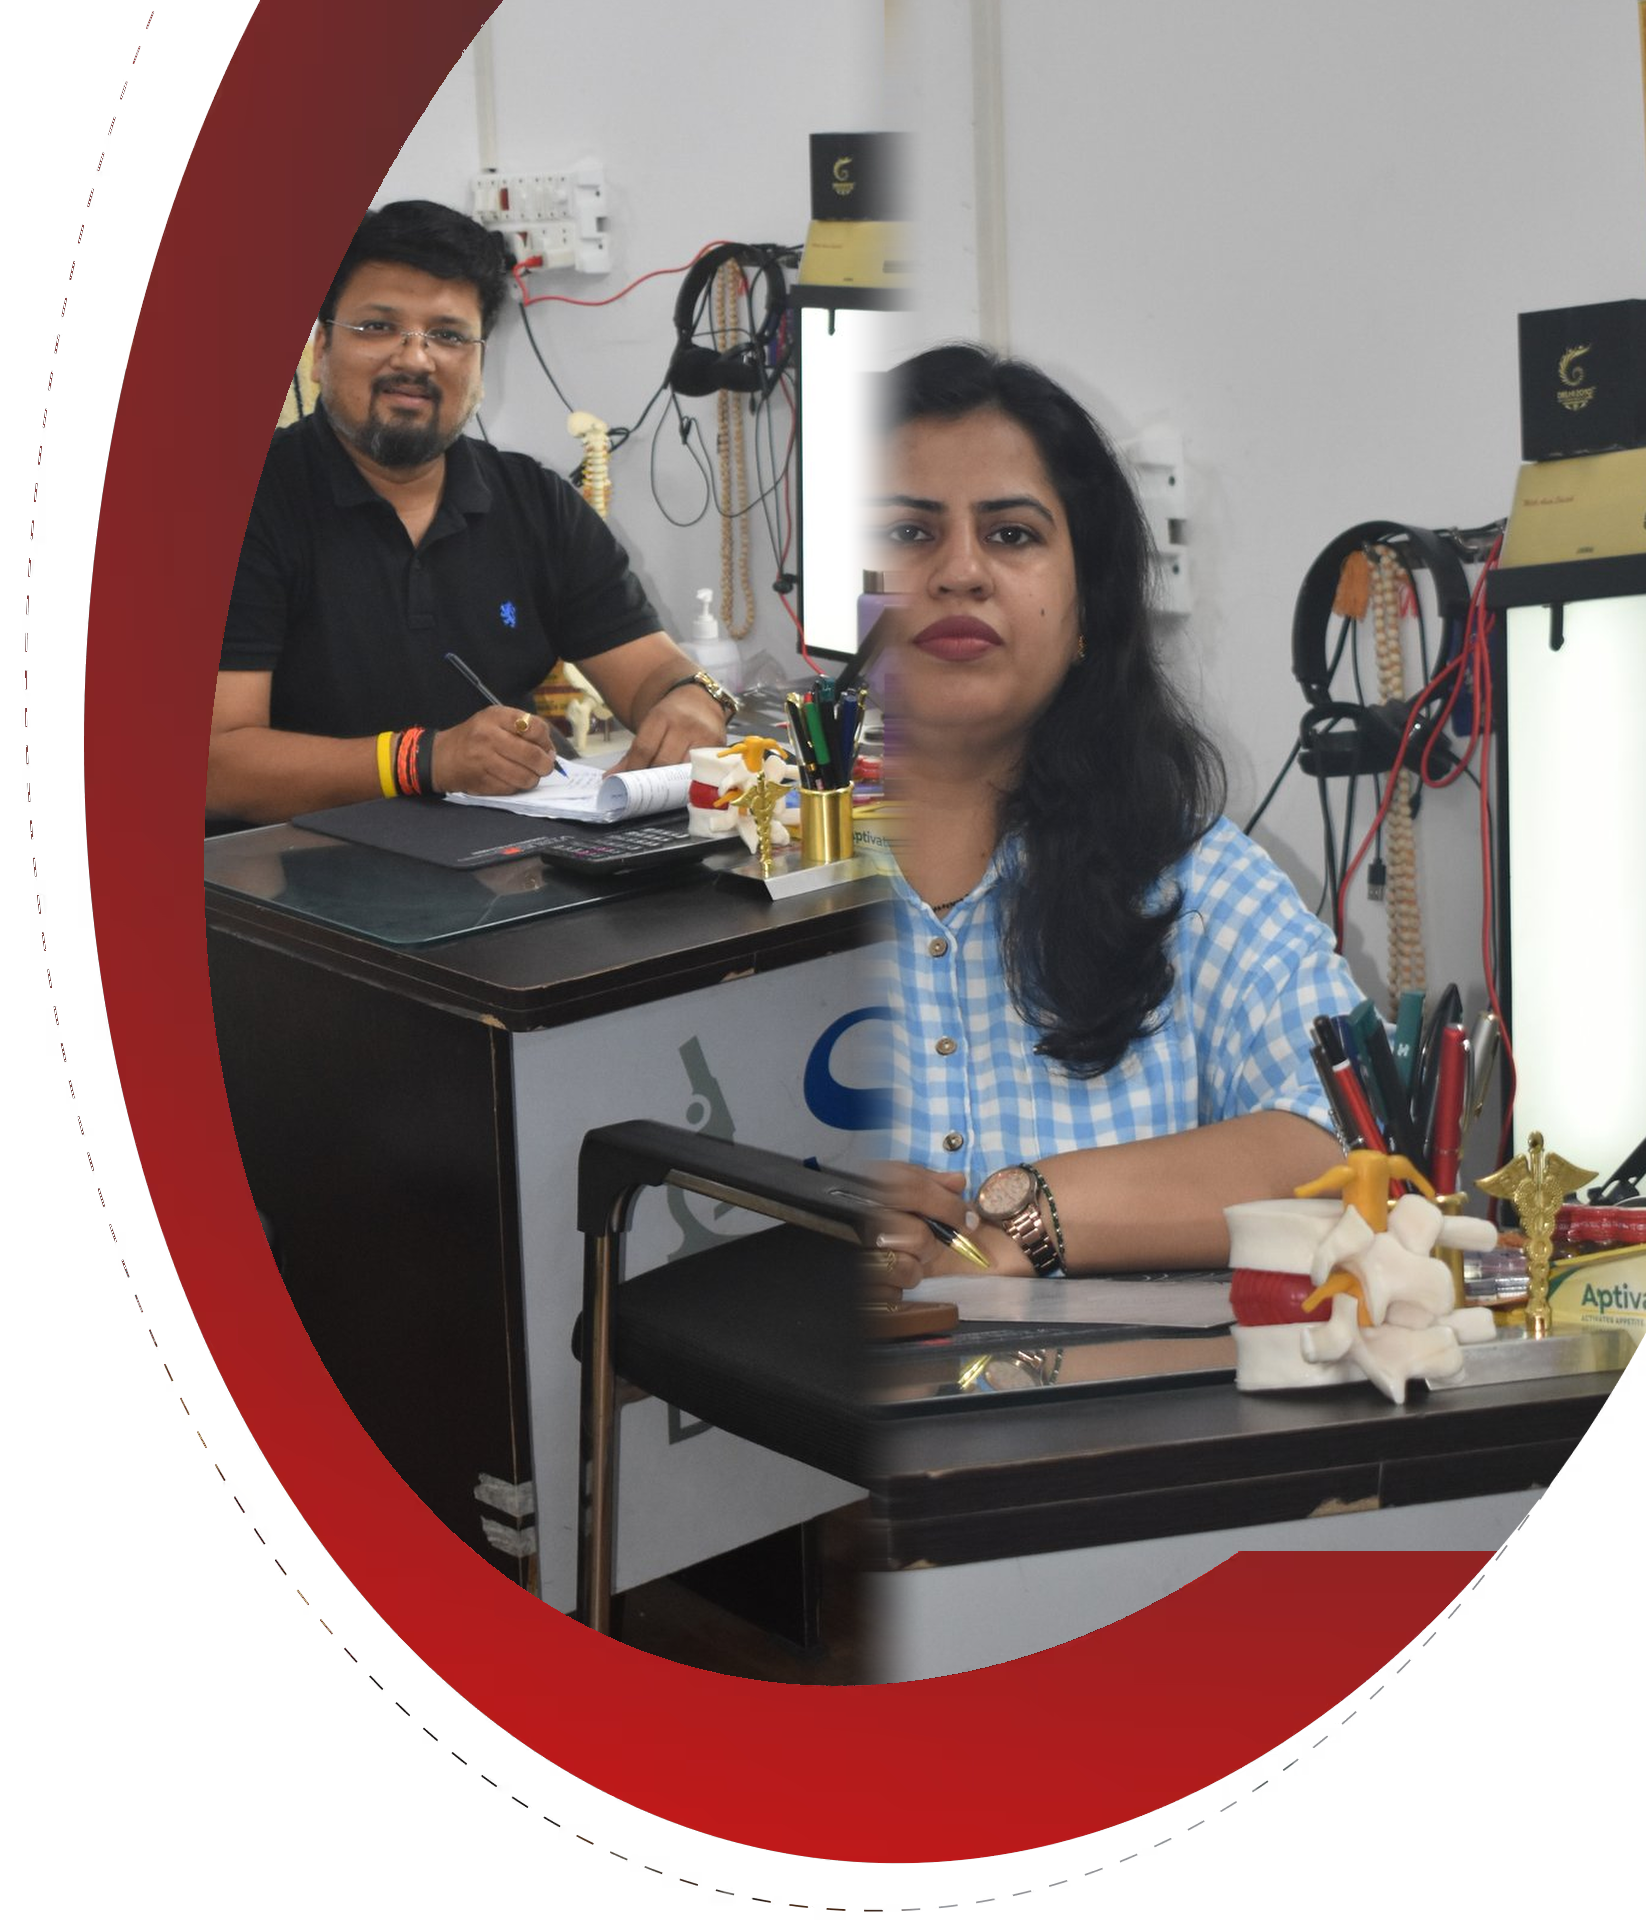
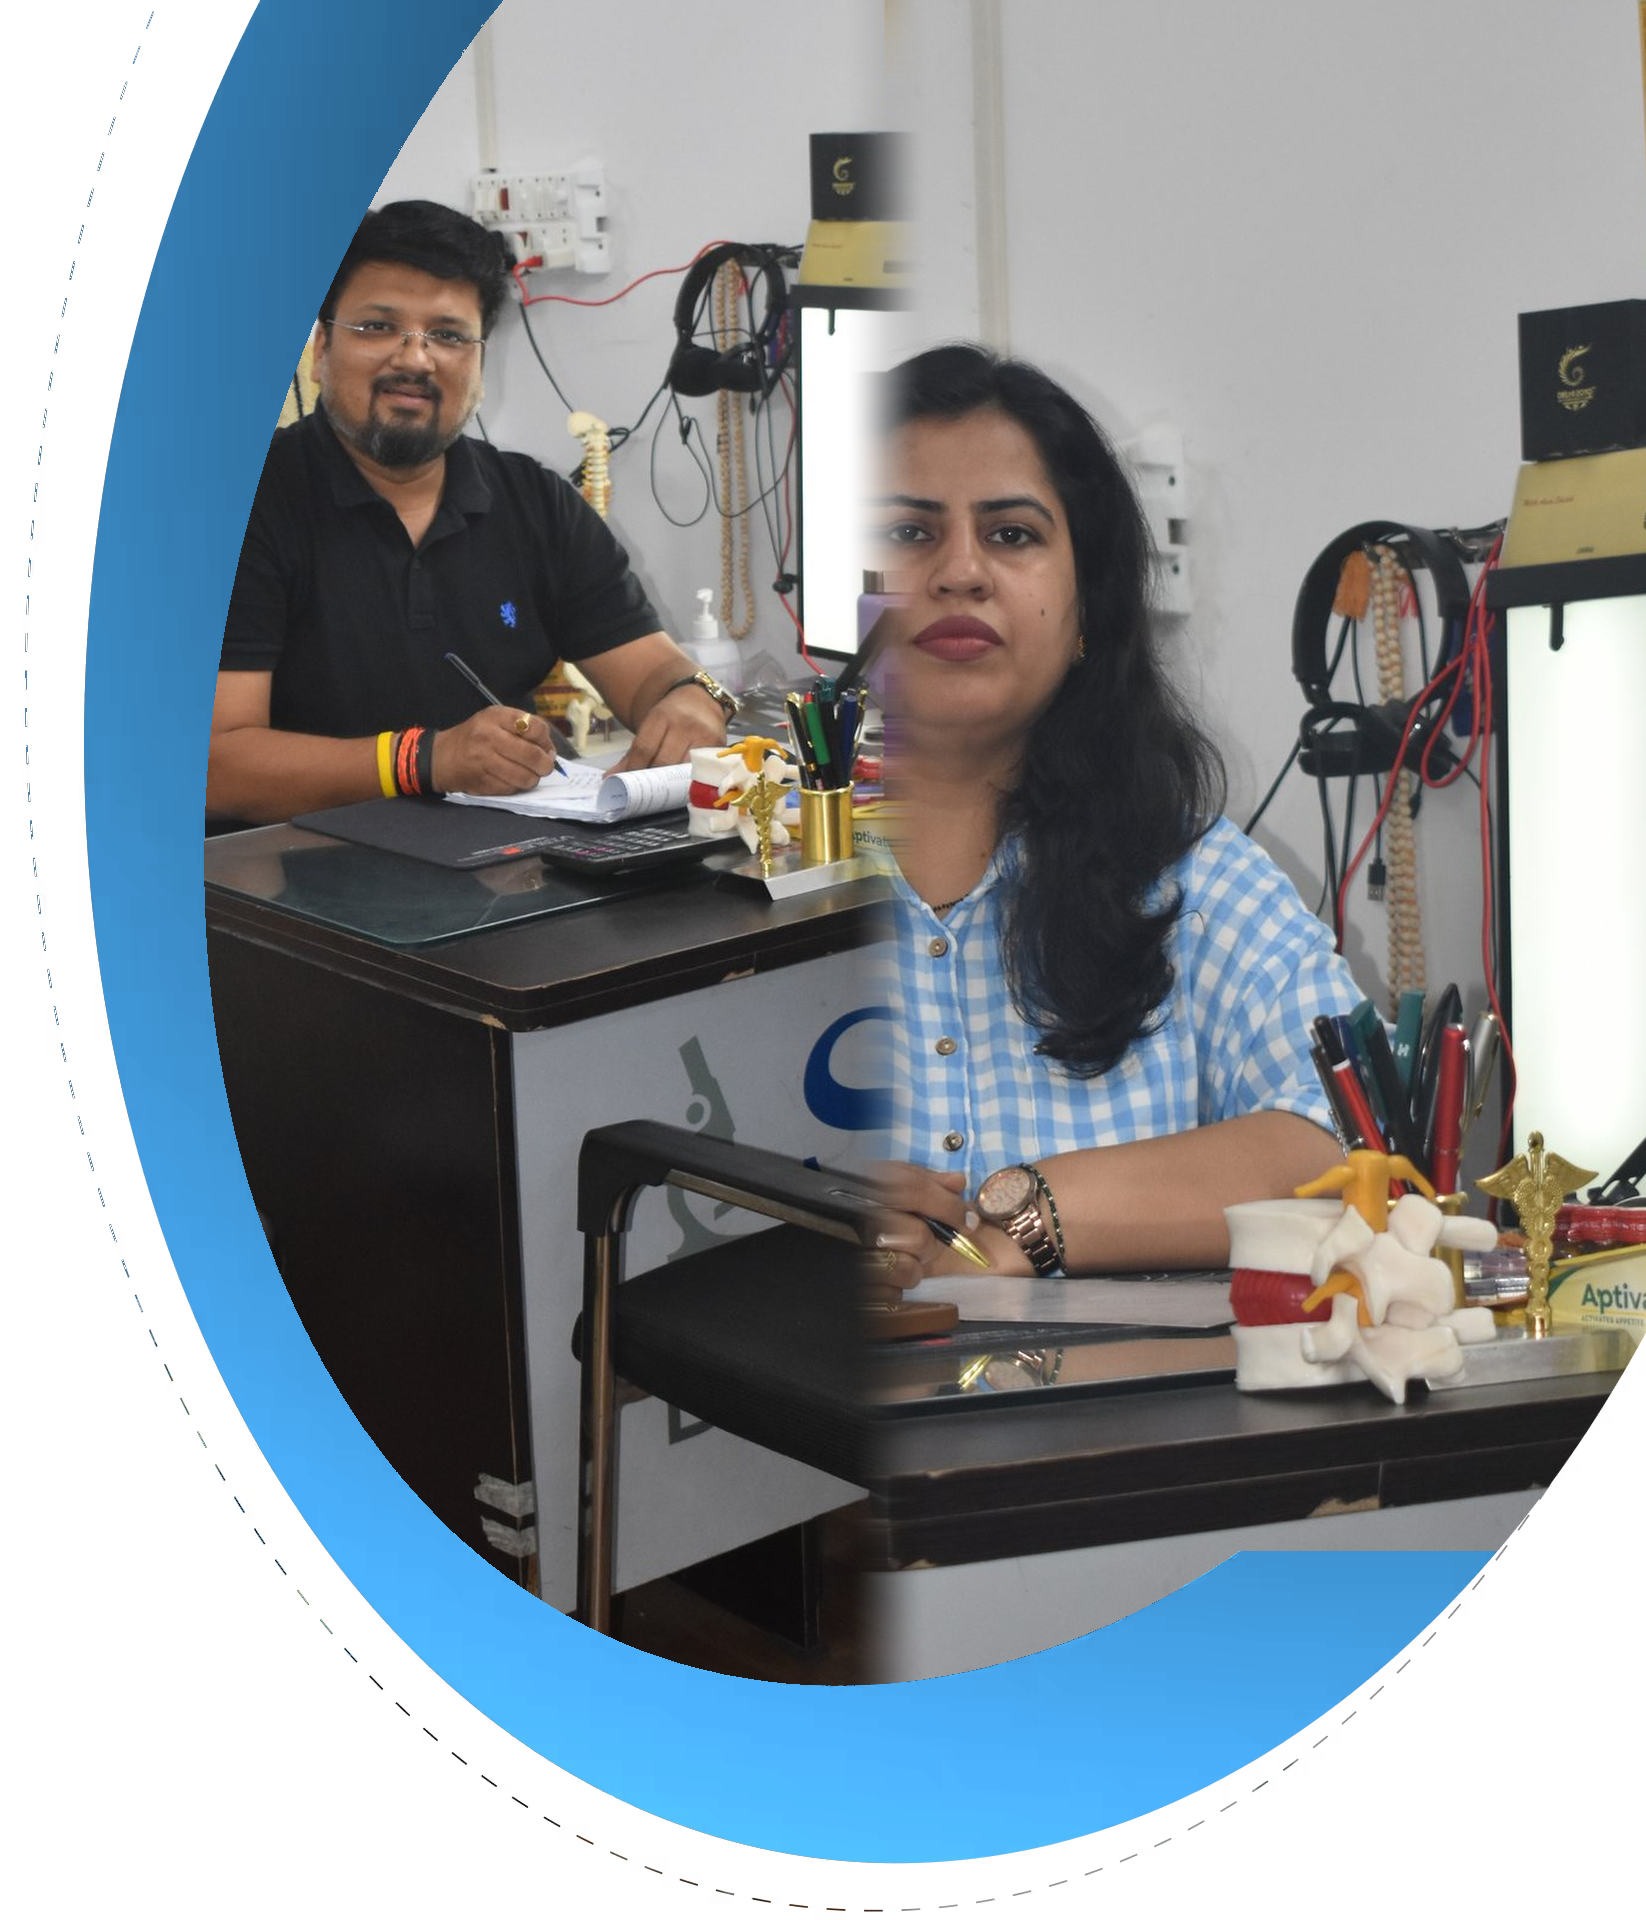
Update crescent arc and sticker shadow to website brand blue (#367fb5)

Changed region(s): [[0.031, 0.0, 0.8985, 0.9688]]

diff --git a/index.html b/index.html
@@ -349,10 +349,10 @@
                 alt="Accurate Healthcare Senior Clinical Directors Dr. Manish Gupta & Dr. Vandana Choudhary"
                 class="w-full h-auto object-contain block drop-shadow-2xl select-none" />
 
-              <!-- Tilted PhysioFit Signature Sticker Badge (Matches Image 2) -->
+              <!-- Tilted PhysioFit Signature Sticker Badge (Matches Image 2 in Brand Blue) -->
               <div class="absolute left-0 sm:-left-2 top-[26%] sm:top-[28%] z-20 transform -rotate-6 select-none pointer-events-none hover:rotate-0 transition-transform">
-                <div class="bg-slate-950 text-white px-3 sm:px-5 py-2 sm:py-2.5 border-2 border-slate-900 shadow-[4px_4px_0px_#8B1E2F]">
-                  <div class="text-[9px] sm:text-[11px] font-black italic tracking-widest text-rose-300 uppercase leading-none">
+                <div class="bg-slate-950 text-white px-3 sm:px-5 py-2 sm:py-2.5 border-2 border-slate-900 shadow-[4px_4px_0px_#367fb5]">
+                  <div class="text-[9px] sm:text-[11px] font-black italic tracking-widest text-[#bce0ee] uppercase leading-none">
                     NOW IN GHAZIABAD
                   </div>
                   <div class="text-xs sm:text-base lg:text-lg font-black italic tracking-tight text-white uppercase mt-1 leading-none">

diff --git a/recolor_crescent_blue.py b/recolor_crescent_blue.py
@@ -1,0 +1,138 @@
+import cv2
+import numpy as np
+
+# Load images
+f39 = cv2.imread('public/images/frame39_raw.png', cv2.IMREAD_UNCHANGED)
+h, w = f39.shape[:2] # 2048, 2880
+alpha_f39 = f39[:, :, 3]
+
+dm = cv2.imread('public/images/dr-manish.jpg')
+dv = cv2.imread('public/images/dr-vandana.jpg')
+
+# 1. Isolate the Red Ring + Dashed Orbit from f39
+is_red = (f39[:, :, 2] > 90) & (f39[:, :, 1] < 60) & (f39[:, :, 0] < 60) & (alpha_f39 > 80)
+y_coords, x_coords = np.ogrid[:h, :w]
+is_red[(x_coords > 2300) & (y_coords >= 850) & (y_coords <= 1550)] = False
+
+num_labels, labels, stats, centroids = cv2.connectedComponentsWithStats(is_red.astype(np.uint8), connectivity=8)
+ring_label = None
+max_area = 0
+for lbl in range(1, num_labels):
+    area = stats[lbl, cv2.CC_STAT_AREA]
+    left = stats[lbl, cv2.CC_STAT_LEFT]
+    if area > max_area and left < 1600:
+        max_area = area
+        ring_label = lbl
+
+red_ring_mask = (labels == ring_label)
+dashed_mask = (alpha_f39 > 0) & (alpha_f39 < 240) & ~red_ring_mask & (x_coords < 1600)
+
+# 2. Recolor the Red Ring to Brand Blue (#367fb5 / #1B365D)
+# Target Brand Blue: #367fb5 -> B=181, G=127, R=54 in BGR
+# In the original red ring, red channel is f39[:, :, 2]
+red_channel = f39[:, :, 2].astype(float)
+# Normalize luminance by 125.0
+norm_lum = red_channel / 125.0
+
+blue_ring = f39.copy()
+# Recolor red ring:
+blue_ring[red_ring_mask, 0] = np.clip(181.0 * norm_lum[red_ring_mask], 0, 255).astype(np.uint8) # B
+blue_ring[red_ring_mask, 1] = np.clip(127.0 * norm_lum[red_ring_mask], 0, 255).astype(np.uint8) # G
+blue_ring[red_ring_mask, 2] = np.clip(54.0 * norm_lum[red_ring_mask], 0, 255).astype(np.uint8)  # R
+
+# Recolor dashed line to #367fb5 (B=181, G=127, R=54)
+blue_ring[dashed_mask, 0] = 181
+blue_ring[dashed_mask, 1] = 127
+blue_ring[dashed_mask, 2] = 54
+
+graphic_overlay_mask = red_ring_mask | dashed_mask
+graphic_overlay_blue = np.zeros((h, w, 4), dtype=np.uint8)
+graphic_overlay_blue[graphic_overlay_mask] = blue_ring[graphic_overlay_mask]
+
+# 3. Doctors Framing
+target_h = 2048
+w_m_target = 760
+w_v_target = 760
+
+crop_h_m = 1700
+crop_w_m = int(crop_h_m * (w_m_target / float(target_h)))
+y1_m = max(0, int(910 - 0.28 * crop_h_m))
+y2_m = y1_m + crop_h_m
+x1_m = max(0, int(752 - 0.50 * crop_w_m))
+x2_m = x1_m + crop_w_m
+dm_crop = cv2.resize(dm[y1_m:y2_m, x1_m:x2_m], (w_m_target, target_h), interpolation=cv2.INTER_LANCZOS4)
+
+crop_h_v = 1700
+crop_w_v = int(crop_h_v * (w_v_target / float(target_h)))
+y1_v = max(0, int(969 - 0.28 * crop_h_v))
+y2_v = y1_v + crop_h_v
+x1_v = max(0, int(892 - 0.50 * crop_w_v))
+x2_v = x1_v + crop_w_v
+if x2_v > dv.shape[1]:
+    diff = x2_v - dv.shape[1]
+    x1_v -= diff
+    x2_v = dv.shape[1]
+dv_crop = cv2.resize(dv[y1_v:y2_v, x1_v:x2_v], (w_v_target, target_h), interpolation=cv2.INTER_LANCZOS4)
+
+doctors_canvas = np.zeros((target_h, w_m_target + w_v_target, 3), dtype=np.uint8)
+doctors_canvas[:, :w_m_target] = dm_crop
+doctors_canvas[:, w_m_target:] = dv_crop
+
+seam_x = w_m_target
+blend_w = 40
+for c in range(seam_x - blend_w, seam_x + blend_w):
+    t = (c - (seam_x - blend_w)) / float(2 * blend_w)
+    smooth_t = t * t * (3 - 2 * t)
+    shadow = 0.94 + 0.06 * abs(c - seam_x) / float(blend_w)
+    doctors_canvas[:, c] = np.clip(
+        ((1.0 - smooth_t) * dm_crop[:, min(w_m_target - 1, c)] + smooth_t * dv_crop[:, max(0, c - seam_x)]) * shadow,
+        0, 255
+    ).astype(np.uint8)
+
+# 4. Composite into Full Canvas
+full_canvas = np.zeros((h, w, 4), dtype=np.uint8)
+x_start = w - doctors_canvas.shape[1]
+full_canvas[:, x_start:w, :3] = doctors_canvas
+full_canvas[:, x_start:w, 3] = 255
+
+full_canvas[:, :, 3] = np.minimum(full_canvas[:, :, 3], alpha_f39)
+
+overlay_alpha = graphic_overlay_blue[:, :, 3].astype(float) / 255.0
+for c in range(3):
+    full_canvas[:, :, c] = np.clip(
+        full_canvas[:, :, c].astype(float) * (1.0 - overlay_alpha) +
+        graphic_overlay_blue[:, :, c].astype(float) * overlay_alpha,
+        0, 255
+    ).astype(np.uint8)
+
+full_canvas[:, :, 3] = np.maximum(full_canvas[:, :, 3], graphic_overlay_blue[:, :, 3])
+
+# 5. Crop tightly to active pixels
+coords = np.argwhere(full_canvas[:, :, 3] > 0)
+y_min, x_min = coords.min(axis=0)
+y_max, x_max = coords.max(axis=0)
+
+crop_x1 = max(0, x_min - 20)
+crop_x2 = min(w, x_max + 1)
+crop_y1 = max(0, y_min - 10)
+crop_y2 = min(h, y_max + 1)
+
+cropped = full_canvas[crop_y1:crop_y2, crop_x1:crop_x2]
+
+# Save high-res PNG and web-optimized PNG
+cv2.imwrite('public/images/hero-crescent-final.png', full_canvas)
+cv2.imwrite('public/images/hero-crescent-cropped.png', cropped)
+
+web_w = 1400
+web_h = int(cropped.shape[0] * (web_w / float(cropped.shape[1])))
+web_optimized = cv2.resize(cropped, (web_w, web_h), interpolation=cv2.INTER_LANCZOS4)
+cv2.imwrite('public/images/hero-crescent-web.png', web_optimized)
+
+# Save preview on light background for inspection
+bg = np.full((web_h, web_w, 3), (248, 248, 250), dtype=np.uint8)
+alpha_norm = web_optimized[:, :, 3].astype(float) / 255.0
+for c in range(3):
+    bg[:, :, c] = np.clip(web_optimized[:, :, c].astype(float) * alpha_norm + bg[:, :, c].astype(float) * (1.0 - alpha_norm), 0, 255).astype(np.uint8)
+
+cv2.imwrite(r'C:\Users\dhruv\.gemini\antigravity\brain\d929d5e8-1ca6-4dcf-802e-1bdcbb6c73a2\hero_crescent_blue_preview.jpg', bg)
+print('Blue crescent generated successfully.')
